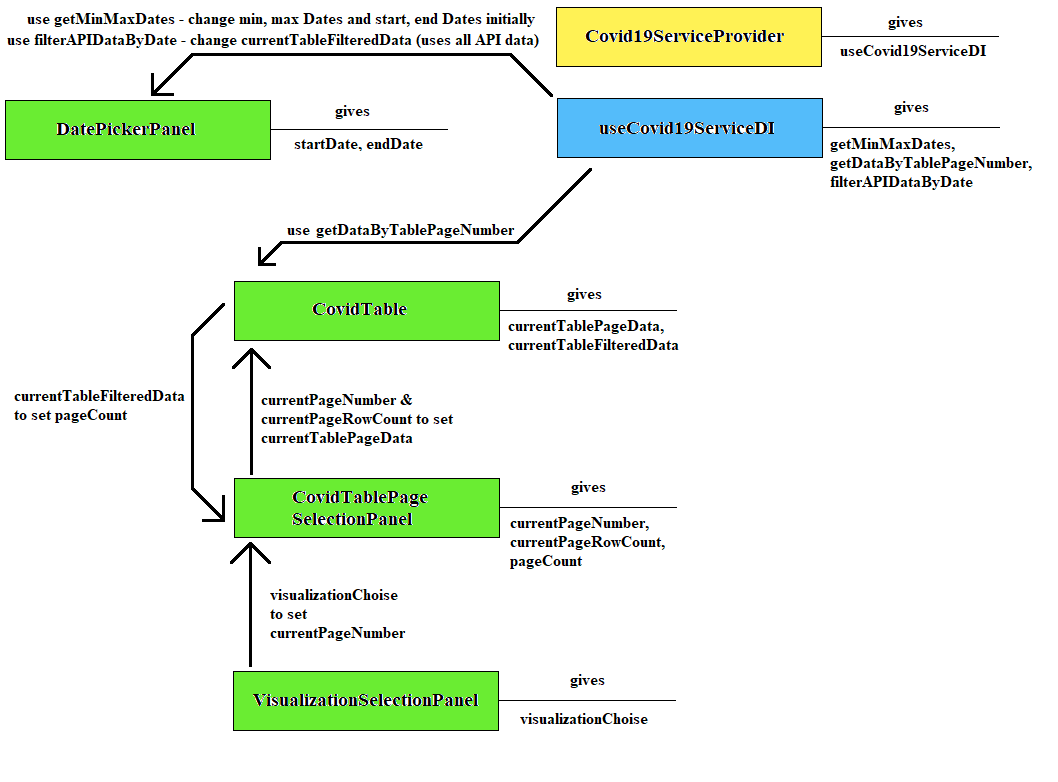
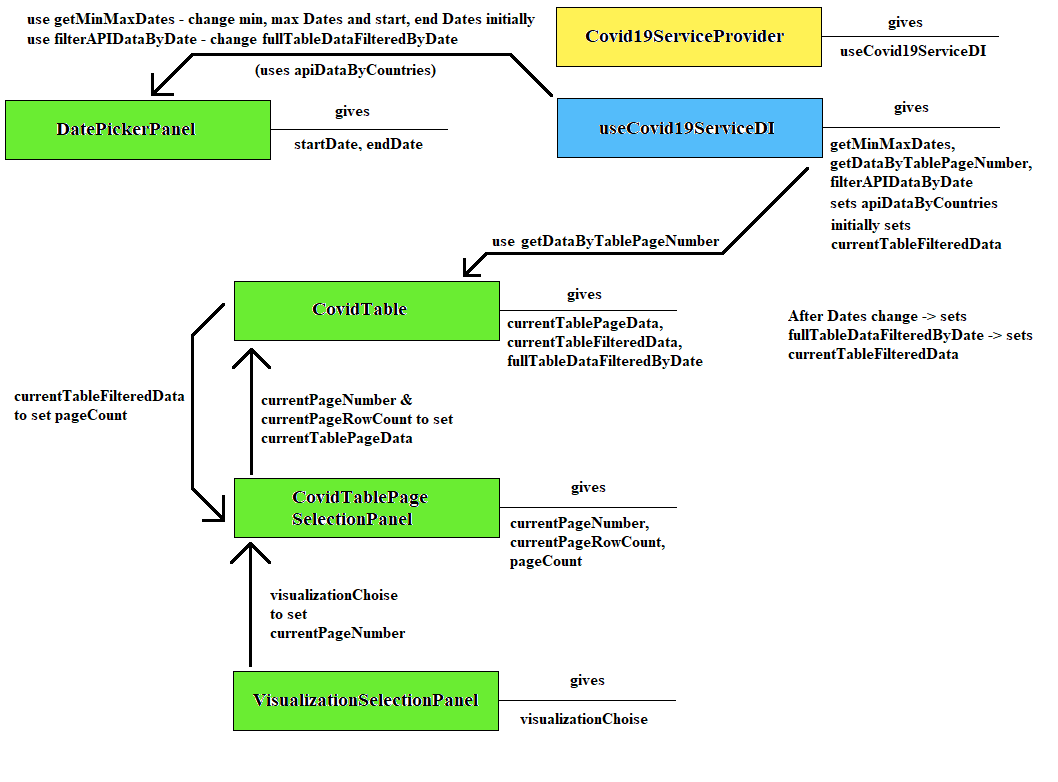
Change & Improve filtered data logic

diff --git a/covid-table-chart/src/components/CovidDashboard/CovidTableScreen/CovidTable/tableDataReducer.tsx b/covid-table-chart/src/components/CovidDashboard/CovidTableScreen/CovidTable/tableDataReducer.tsx
@@ -24,15 +24,22 @@ export const setCurrentTableFilteredData = (currentTableFilteredData: Array<Tabl
     payload: currentTableFilteredData,
 });
 
+export const setFullTableDataFilteredByDate = (fullTableDataFilteredByDate: Array<TableCovidDataRepresentation>): TableDataAction => ({
+    type: "SET_FULL_TABLE_DATA_FILTERED_BY_DATE",
+    payload: fullTableDataFilteredByDate,
+});
+
 //State definition
 export interface TableDataState {
     currentTablePageData: Array<TableCovidDataRepresentation>,
-    currentTableFilteredData: Array<TableCovidDataRepresentation>
+    currentTableFilteredData: Array<TableCovidDataRepresentation>,
+    fullTableDataFilteredByDate: Array<TableCovidDataRepresentation>
 };
 
 const initialState = {
     currentTablePageData: new Array<TableCovidDataRepresentation>(),
-    currentTableFilteredData: new Array<TableCovidDataRepresentation>()
+    currentTableFilteredData: new Array<TableCovidDataRepresentation>(),
+    fullTableDataFilteredByDate: new Array<TableCovidDataRepresentation>(),
 };
 
 export function tableDataReducer(state: TableDataState = initialState, action: TableDataAction) {
@@ -42,6 +49,9 @@ export function tableDataReducer(state: TableDataState = initialState, action: T
         }
         case "SET_CURRENT_TABLE_FILTERED_DATA":{
             return { ...state, currentTableFilteredData: [...action.payload] };
+        }
+        case "SET_FULL_TABLE_DATA_FILTERED_BY_DATE":{
+            return { ...state, fullTableDataFilteredByDate: [...action.payload] };
         }
         default:{
             return state;

diff --git a/covid-table-chart/src/components/CovidDashboard/CovidTableScreen/CovidTable/CovidTable.tsx b/covid-table-chart/src/components/CovidDashboard/CovidTableScreen/CovidTable/CovidTable.tsx
@@ -9,7 +9,8 @@ import "./CovidTable.css";
 import { RootReducerState } from "../../../../redux/reducerStore";
 import { 
     TableDataState,
-    setCurrentTablePageData
+    setCurrentTablePageData,
+    setCurrentTableFilteredData
 } from "./tableDataReducer";
 import { PageSelectionState } from "../CovidTablePageSelectionPanel/pageSelectionReducer";
 import { useCovid19ServiceDI } from "../../../../contexts/Covid19ServiceProvider";
@@ -27,7 +28,8 @@ const columns = [
 const CovidTable: React.FC = () => {
     const { 
         currentTablePageData,
-        currentTableFilteredData
+        currentTableFilteredData,
+        fullTableDataFilteredByDate
     } = useSelector<RootReducerState, TableDataState>((state) => state.tableDataReducer);
     const { 
         currentPageNumber,
@@ -49,6 +51,12 @@ const CovidTable: React.FC = () => {
             amountOfDeathsPer1000: element.amountOfDeathsPer1000
         }
     });
+
+    useEffect(() => {
+
+        dispatch(setCurrentTableFilteredData(fullTableDataFilteredByDate));
+
+    }, [fullTableDataFilteredByDate]);
 
     useEffect(() => {
         

diff --git a/covid-table-chart/src/components/DatePickerPanel/DatePickerPanel.tsx b/covid-table-chart/src/components/DatePickerPanel/DatePickerPanel.tsx
@@ -14,7 +14,7 @@ import {
     setMaxDate
 } from "./dateReducer";
 
-import { setCurrentTableFilteredData } from "../CovidDashboard/CovidTableScreen/CovidTable/tableDataReducer";
+import { setFullTableDataFilteredByDate } from "../CovidDashboard/CovidTableScreen/CovidTable/tableDataReducer";
 
 import { RootReducerState } from "../../redux/reducerStore";
 import { useCovid19ServiceDI } from "../../contexts/Covid19ServiceProvider";
@@ -55,7 +55,7 @@ const DatePickerPanel: React.FC = () => {
 
         filterAPIDataByDate(apiDataByCountries, startDate, endDate)
             .then((result) => {
-            dispatch(setCurrentTableFilteredData(result));
+            dispatch(setFullTableDataFilteredByDate(result));
         });
 
     }, [startDate, endDate]);

diff --git a/covid-table-chart/src/hooks/covid19Service.hook.tsx b/covid-table-chart/src/hooks/covid19Service.hook.tsx
@@ -186,12 +186,12 @@ export default function useCovid19Service(): Covid19Service{
     };
 
     useEffect(() => {
-        _transformToTableData(
-            covid19DataByCountries,
-            covid19CountriesTotalCasesAndDeaths
-        ).then((tableData) => {
-            dispatch(setCurrentTableFilteredData(tableData));
-        });
+        // _transformToTableData(
+        //     covid19DataByCountries,
+        //     covid19CountriesTotalCasesAndDeaths
+        // ).then((tableData) => {
+        //     dispatch(setCurrentTableFilteredData(tableData));
+        // });
         covid19DataByCountries.then((data) => {
             dispatch(setAPIDataByCountries(data));
         })
